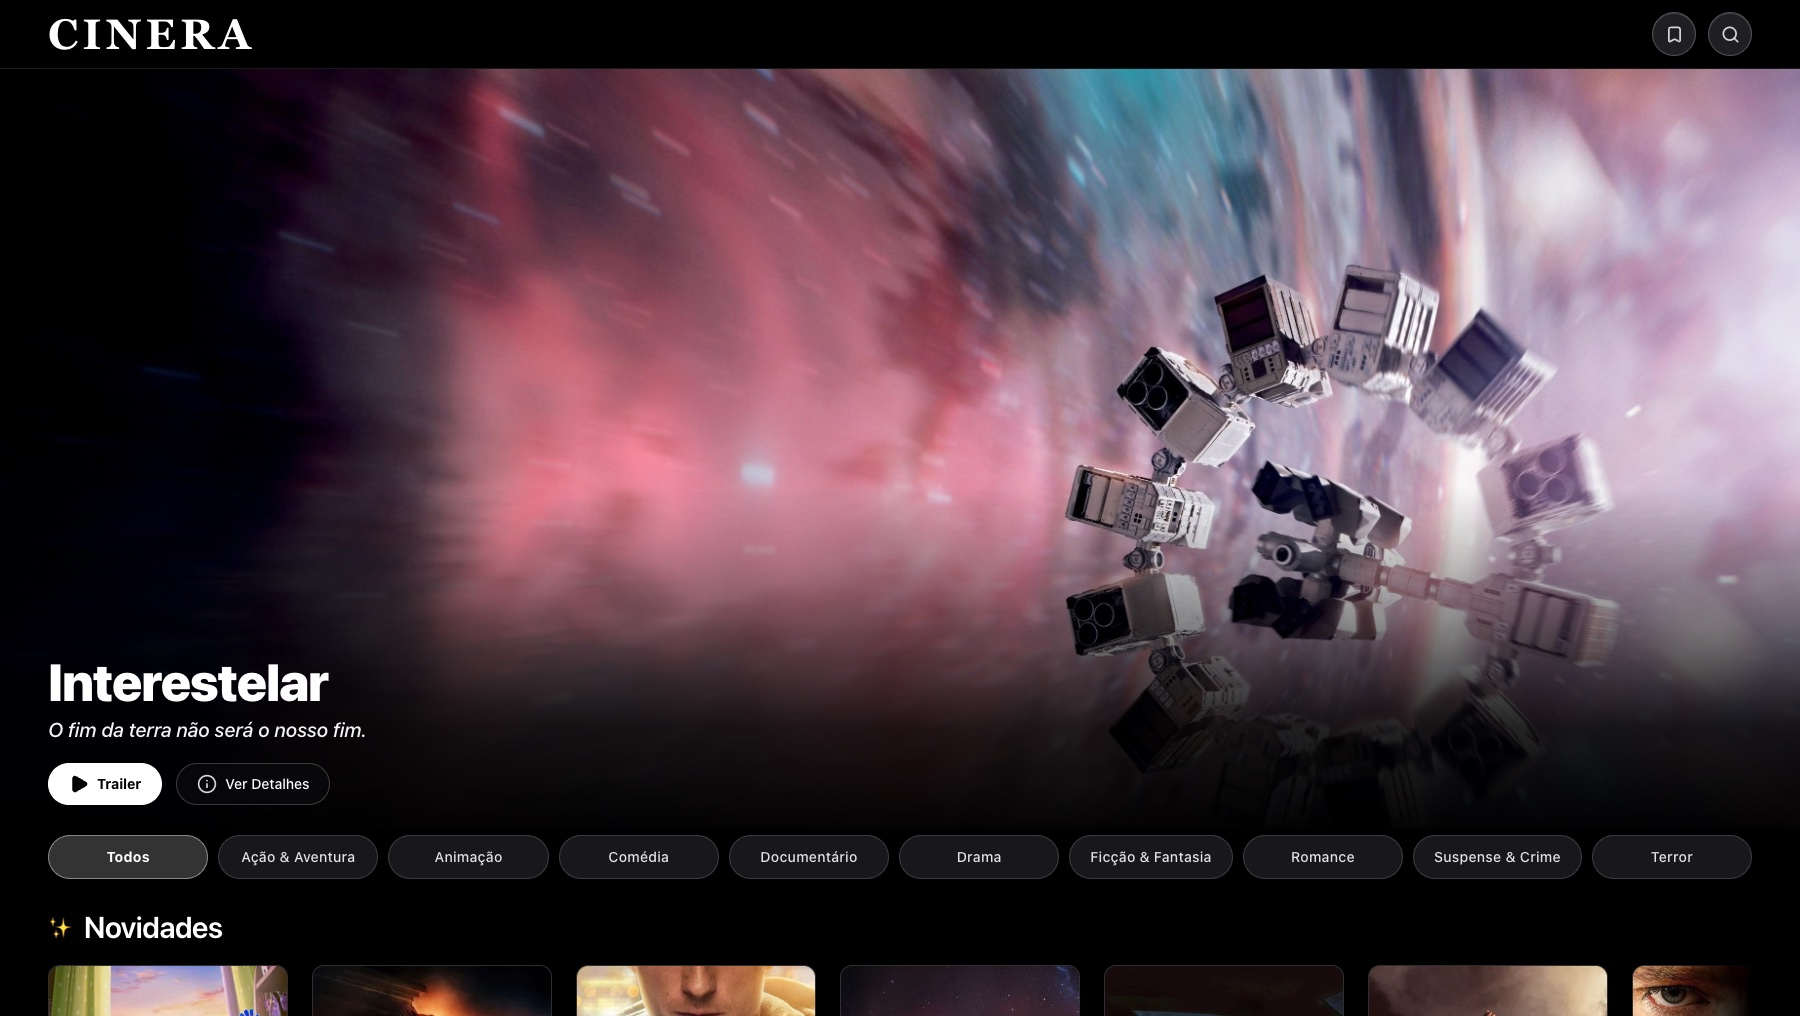
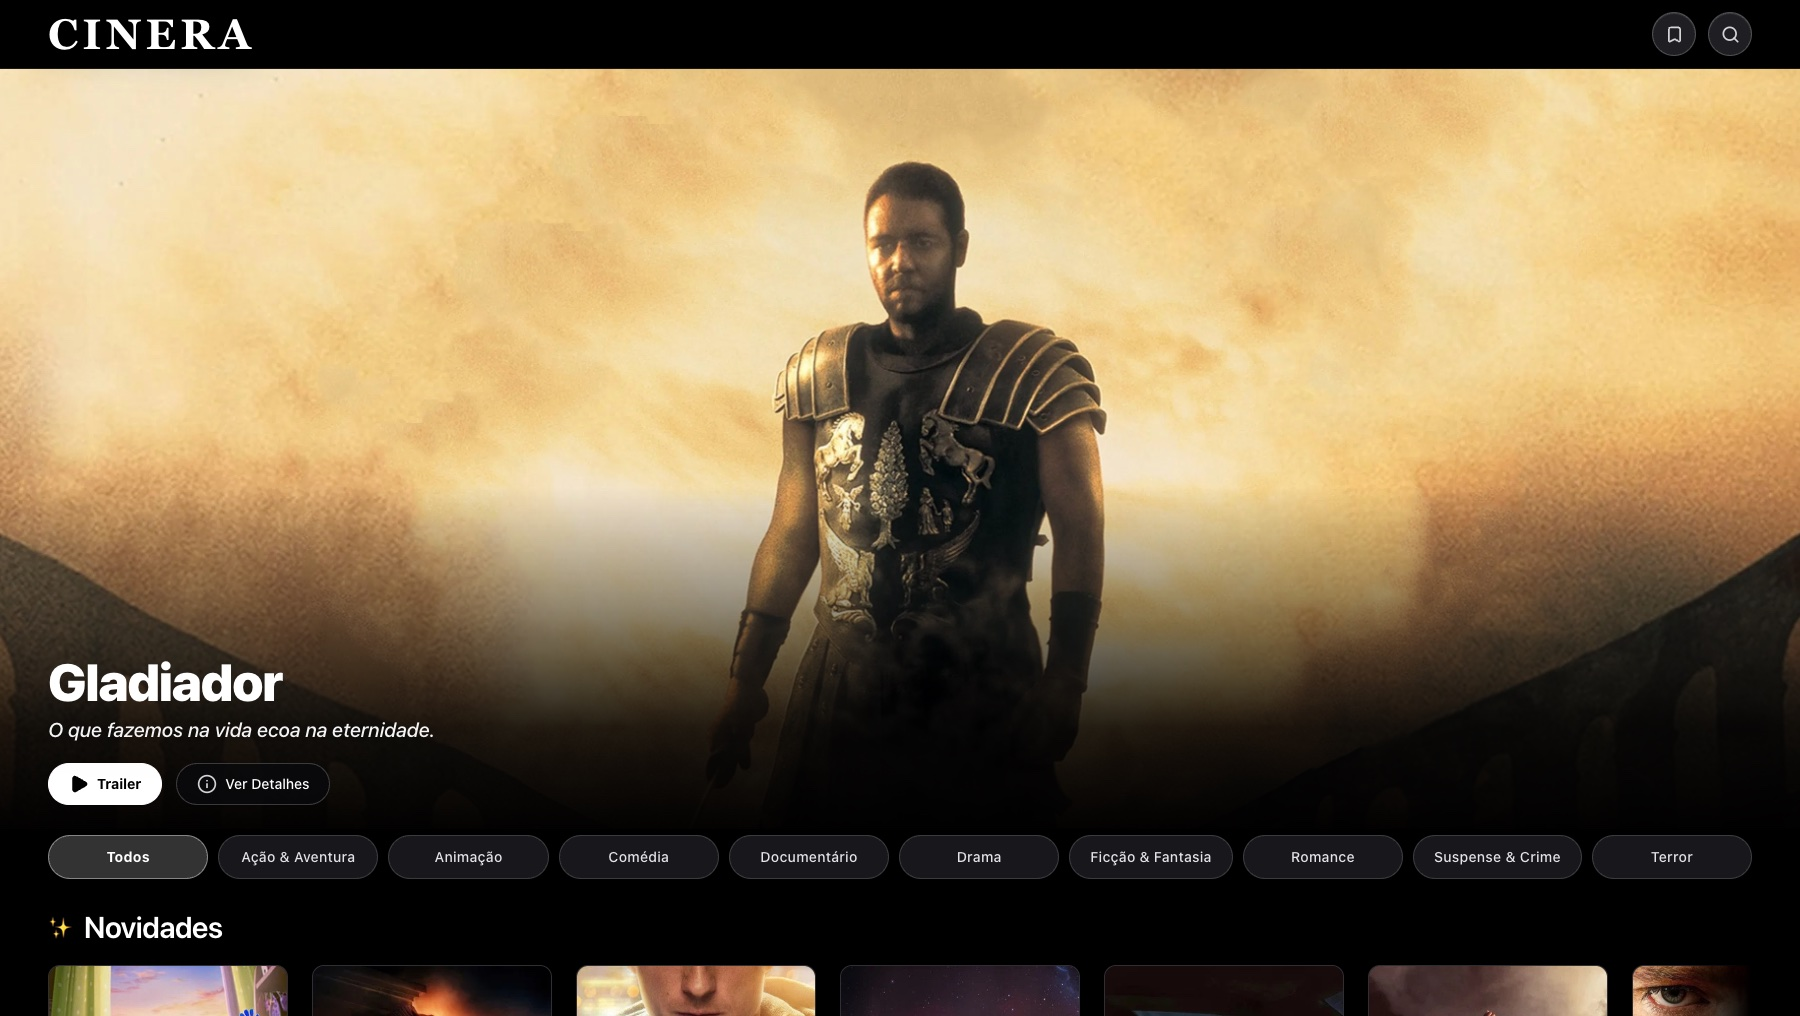
docs: foto principal do README com Gladiador
O fundo do Interestelar no TMDB é uma imagem desfocada da nave, sem a arte oficial do filme. O Gladiador (5 Oscars, IMDb 8,5, 1,8 mi de votos) tem a arte oficial de Maximus, nítida e com o título livre. Os dois prints do destaque (desktop e celular) foram refeitos com ele como primeiro slide, só na captura: o catálogo publicado não foi alterado.

diff --git a/README.md b/README.md
@@ -19,7 +19,7 @@
 
 <br />
 
-<img src="docs/screenshots/desktop.jpg" alt="CINERA no desktop: destaque em tela cheia com Interestelar e filtros por categoria" width="73%" />&nbsp;&nbsp;<img src="docs/screenshots/mobile.jpg" alt="CINERA no celular" width="22%" />
+<img src="docs/screenshots/desktop.jpg" alt="CINERA no desktop: destaque em tela cheia com Gladiador e filtros por categoria" width="73%" />&nbsp;&nbsp;<img src="docs/screenshots/mobile.jpg" alt="CINERA no celular, com Gladiador em destaque" width="22%" />
 
 </div>
 
